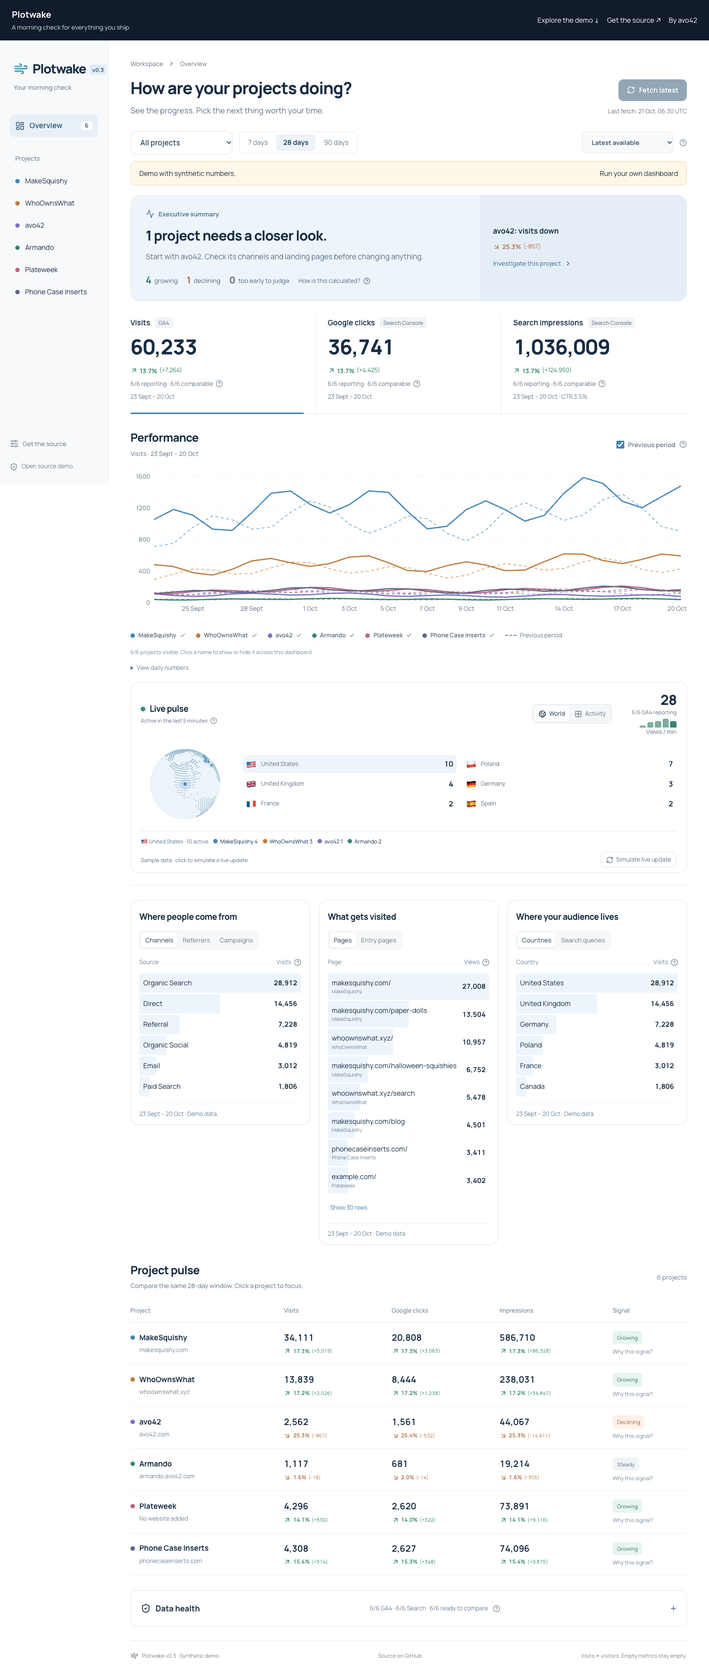
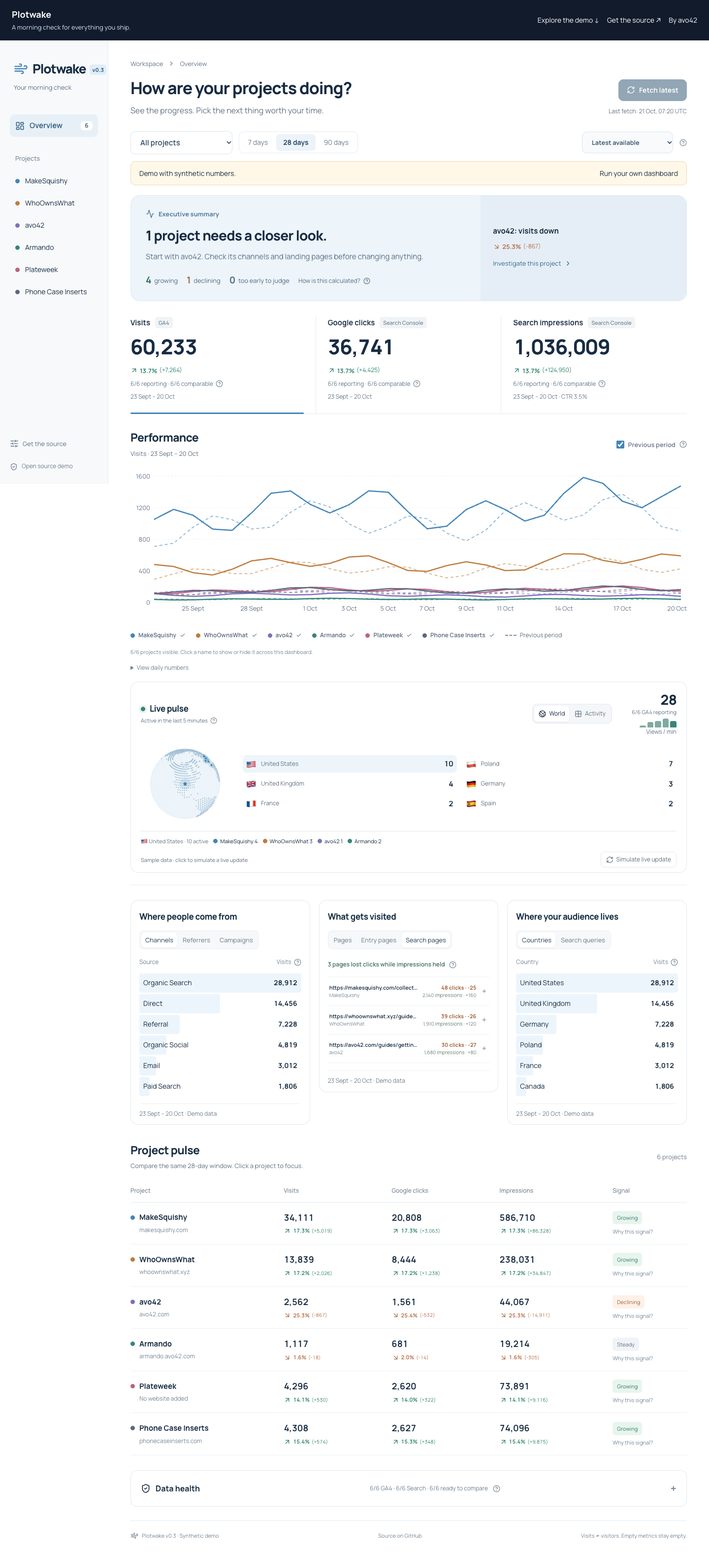
Add Search Console page loss watch

diff --git a/src/overview.tsx b/src/overview.tsx
@@ -17,7 +17,7 @@ function Delta({pct,delta}:{pct:number|null;delta:number|null}){if(delta===null)
  {delta<0?<ArrowDownRight size={15}/>:<ArrowUpRight size={15}/>} {pct===null?(delta===0?'No change':'New traffic'):`${Math.abs(pct).toFixed(1)}%`} <span>({delta>0?'+':''}{fmt(delta)})</span></span>;}
 function synthetic(projects:Project[],now:number):Snapshot{return {fetchedAt:new Date(now).toISOString(),signature:'demo',bridgeVersion:2,reports:demoReports(projects).map(r=>({...r,days:r.days.map(d=>({...d,date:dateOffset(d.date,2),sessions:d.sessions!,clicks:d.clicks!,impressions:d.impressions!})),endDate:dateOffset(r.endDate,2)}))};}
 function demoBreakdown(kind:Kind,projects:Project[],n:number,end:string|null):Breakdown{
- const labels:Record<Kind,string[]>={channels:['Organic Search','Direct','Referral','Organic Social','Email','Paid Search'],referrers:['google / organic','(direct) / (none)','reddit.com / referral','linkedin.com / referral','bing / organic','newsletter / email'],campaigns:['(not set)','autumn-launch','founder-newsletter','reddit-feedback'],pages:['/','/collections','/products/bestsellers','/about','/blog','/contact'],landing:['/','/blog/how-it-works','/collections','/products/bestsellers','/about'],countries:['United States','United Kingdom','Germany','Poland','France','Canada'],queries:['custom phone case inserts','make your own squishy','who owns this company','weekly meal planner','phone case template','squishy kit']};
+ const labels:Record<Kind,string[]>={channels:['Organic Search','Direct','Referral','Organic Social','Email','Paid Search'],referrers:['google / organic','(direct) / (none)','reddit.com / referral','linkedin.com / referral','bing / organic','newsletter / email'],campaigns:['(not set)','autumn-launch','founder-newsletter','reddit-feedback'],pages:['/','/collections','/products/bestsellers','/about','/blog','/contact'],landing:['/','/blog/how-it-works','/collections','/products/bestsellers','/about'],countries:['United States','United Kingdom','Germany','Poland','France','Canada'],queries:['custom phone case inserts','make your own squishy','who owns this company','weekly meal planner','phone case template','squishy kit'],'search-pages':[]};
  const reports=synthetic(projects,Date.now()).reports;
  const totalFor=(id:string)=>reports.find(r=>r.id===id)?.days.filter(d=>!end||d.date<=end).slice(-n).reduce((sum,d)=>sum+(kind==='queries'?d.clicks:d.sessions)!,0)||0;
  const weights=[.48,.24,.12,.08,.05,.03];
@@ -26,6 +26,7 @@ function demoBreakdown(kind:Kind,projects:Project[],n:number,end:string|null):Br
  const paths:Record<string,string[]>={makesquishy:['/','/paper-dolls','/halloween-squishies','/blog','/about'],whoownswhat:['/','/search','/companies','/about','/contact'],avo42:['/','/ai-shift','/ai-markets','/about','/contact'],phonecaseinserts:['/','/templates','/collections','/how-it-works','/about']};
  return {rows:projects.flatMap(p=>distribute(Math.round(totalFor(p.id)*(kind==='pages'?1.6:1)),(paths[p.id]||['/','/getting-started','/features','/about','/contact']).map(path=>(p.domain||'example.com')+path),p.id)).sort((a,b)=>b.value-a.value),errors:[]};
  }
+ if(kind==='search-pages')return {rows:projects.flatMap((p,i)=>[{label:`https://${p.domain||'example.com'}/${i===0?'collections/summer':'guides/getting-started'}`,value:48-i*9,previousValue:73-i*8,impressions:2140-i*230,previousImpressions:1980-i*190,ctr:.022-i*.001,previousCtr:.037-i*.002,position:8.4+i*.7,previousPosition:9.1+i*.6,flagged:true,project:p.id}]).slice(0,3),errors:[]};
  const total=projects.reduce((sum,p)=>sum+totalFor(p.id),0);
  return {rows:distribute(kind==='queries'?Math.round(total*.85):total,labels[kind]),errors:[]};
 }
@@ -80,28 +81,32 @@ export default function Overview({publicDemo=false}:{publicDemo?:boolean}){
  {hiddenOpen&&hidden.map(p=><div className="v2-hiddenrow" key={p.id}>{p.name}<button disabled={dismissBusy} onClick={()=>void dismiss(p,true)}>Restore</button></div>)}
  </div></section>
  {!demo&&data?.connected&&!!snapshot&&data?.bridgeVersion===1&&<details className="v2-upgrade" id="google-update"><summary><Link2 size={17}/> Enable fresher data & detail reports <span>One-time script update</span></summary><div><p>Your current Google script stops at three days ago and returns only visits, clicks and impressions. V2 is ready for yesterday’s provisional data and the detail reports below. Your existing key and Google permissions stay the same.</p><ol><li>Open <a href="https://script.google.com/home" target="_blank" rel="noreferrer">your Google script <ExternalLink size={13}/></a>.</li><li>Replace Code.gs with <a href={import.meta.env.BASE_URL+"google/Code.gs"} target="_blank" rel="noreferrer">the v2 script</a> and save.</li><li>Deploy → Manage deployments → edit your web app → Version: New version → Deploy. Keep its URL.</li><li>Click Fetch latest here.</li></ol></div></details>}
+ {!demo&&data?.connected&&!!snapshot&&data?.bridgeVersion>=2&&<details className="v2-upgrade" id="google-update"><summary><Link2 size={17}/> Turn on Search pages analysis <span>One-time script update</span></summary><div><p>Compare Search Console page clicks with the previous period, including pages where clicks fall while impressions hold. Your existing key and Google permissions stay the same.</p><ol><li>Open your Google Apps Script project.</li><li>Replace Code.gs with <a href={import.meta.env.BASE_URL+"google/Code.gs"} target="_blank" rel="noreferrer">the updated script</a> and save.</li><li>Deploy → Manage deployments → edit your web app → Version: New version → Deploy. Keep its URL.</li><li>Return here and select Search pages.</li></ol></div></details>}
  <section className="v2-stats" aria-label="Key metrics">{(['sessions','clicks','impressions'] as Metric[]).map(k=>{const t=stats[k];return <button key={k} data-testid={'stat-'+k} className={'v2-stat '+(metric===k?'chosen':'')} onClick={()=>setMetric(k)} aria-pressed={metric===k}><span className="v2-statlabel">{metricNames[k]} <span>{k==='sessions'?'GA4':'Search Console'}</span></span><strong>{fmt(t.current)}</strong><Delta pct={t.pct} delta={t.delta}/><span className="v2-statfoot">{t.covered}/{scope.length} reporting · {t.comparable}/{scope.length} comparable <Help text="Total: projects with complete, healthy data in this window. Change: only projects with verified tracking in both periods, compared like for like. Missing sources are excluded rather than counted as zero."/></span><span className="v2-statfoot">{ends[k]?`${short(dateOffset(ends[k]!,1-period))} – ${short(ends[k])}`:'Waiting for a complete report'}{k==='impressions'&&ctr!==null?` · CTR ${ctr.toFixed(1)}%`:''}</span></button>;})}</section>
  <section className="v2-chartsection" aria-labelledby="performance-title"><div className="v2-sectionhead"><div><h2 id="performance-title">Performance</h2><p>{metricNames[metric]} · {short(start)} – {short(end)}</p></div><label className="v2-checkbox"><input type="checkbox" checked={previous} onChange={e=>setPrevious(e.target.checked)}/> Previous period <Help text="Dashed lines show the preceding period, shifted to the same weekday slot for 7 and 28 days. Historical numbers remain visible even if tracking is unverified; growth percentages require a verified baseline. Gaps mean unavailable data, not zero."/></label></div>
  <div className="v2-chart" role="img" aria-label={`${metricNames[metric]} by day, one colour per project. Dashed lines show the previous ${period} days. Values are also available in the daily data table below.`}>
  {end?<ResponsiveContainer width="100%" height={310}><LineChart data={chartRows} margin={{top:18,right:12,left:0,bottom:6}} accessibilityLayer><CartesianGrid vertical={false} stroke="#e9eef3" strokeDasharray="3 4"/><XAxis dataKey="label" axisLine={false} tickLine={false} minTickGap={45} tick={{fontSize:13,fill:'#667589'}}/><YAxis width={48} axisLine={false} tickLine={false} tick={{fontSize:13,fill:'#667589'}} allowDecimals={false}/><Tooltip labelFormatter={(_,payload)=>{const date=payload?.[0]?.payload?.date;return date?`${short(date)} · previous ${short(dateOffset(date,-period))}`:'';}} formatter={(value,name)=>[fmt(Number(value)),String(name)]} contentStyle={{borderRadius:12,border:'1px solid #dde5ed',fontSize:14,boxShadow:'0 8px 24px #1f385415'}}/>{scope.map(p=><Line key={p.id} type="linear" dataKey={p.id} name={p.name} stroke={p.color} strokeWidth={2.5} dot={false} activeDot={{r:4}} connectNulls={false} isAnimationActive={false}/>)}{previous&&scope.map(p=><Line key={p.id+'-previous'} dataKey={p.id+'-previous'} name={`${p.name} · previous`} stroke={p.color} strokeOpacity={0.6} strokeWidth={1.8} strokeDasharray="6 5" dot={false} connectNulls={false} isAnimationActive={false}/>)}</LineChart></ResponsiveContainer>:<div className="v2-empty">No complete reports yet. Fetch data or preview the demo.</div>}
  </div><div className="v2-legend" role="group" aria-label="Visible projects">{available.map(p=><button key={p.id} aria-pressed={!excluded.includes(p.id)} onClick={()=>toggleProject(p.id)} title={`${excluded.includes(p.id)?'Show':'Hide'} ${p.name}`}><i style={{background:p.color}}/>{p.name}{!excluded.includes(p.id)&&<Check size={12}/>}</button>)}{previous&&<span className="v2-dashed">Previous period</span>}{excluded.some(id=>available.some(p=>p.id===id))&&<button className="v2-showall" onClick={()=>setExcluded([])}>Show all</button>}</div><p className="v2-filterhint">{scope.length}/{available.length} projects visible. Click a name to show or hide it across this dashboard.</p><details className="v2-daily"><summary>View daily numbers</summary><div className="v2-tablewrap"><table><thead><tr><th>Date</th>{scope.map(p=><th key={p.id}>{p.name}</th>)}{previous&&scope.map(p=><th key={p.id}>Previous · {p.name}</th>)}</tr></thead><tbody>{chartRows.map((row,i)=><tr key={i}><td>{row.date}</td>{scope.map(p=><td key={p.id}>{fmt(row[p.id] as number|null)}</td>)}{previous&&scope.map(p=><td key={p.id}>{fmt(row[p.id+'-previous'] as number|null)}</td>)}</tr>)}</tbody></table></div></details><LivePulse projects={scope} demo={demo} connected={!!data?.connected} /></section>
- <section className="v2-breakdowns" aria-label="Traffic details"><BreakdownPanel title="Where people come from" tabs={[['channels','Channels'],['referrers','Referrers'],['campaigns','Campaigns']]} project={selected} projects={scope} period={period} end={ends.sessions} demo={demo} bridge={data?.bridgeVersion||1} refreshed={snapshot?.fetchedAt||''}/><BreakdownPanel title="What gets visited" tabs={[['pages','Pages'],['landing','Entry pages']]} project={selected} projects={scope} period={period} end={ends.sessions} demo={demo} bridge={data?.bridgeVersion||1} refreshed={snapshot?.fetchedAt||''}/><BreakdownPanel title="Where your audience lives" tabs={[['countries','Countries'],['queries','Search queries']]} project={selected} projects={scope} period={period} end={ends.clicks} gaEnd={ends.sessions} demo={demo} bridge={data?.bridgeVersion||1} refreshed={snapshot?.fetchedAt||''}/></section>
+ <section className="v2-breakdowns" aria-label="Traffic details"><BreakdownPanel title="Where people come from" tabs={[['channels','Channels'],['referrers','Referrers'],['campaigns','Campaigns']]} project={selected} projects={scope} period={period} end={ends.sessions} demo={demo} bridge={data?.bridgeVersion||1} refreshed={snapshot?.fetchedAt||''}/><BreakdownPanel title="What gets visited" tabs={[['pages','Pages'],['landing','Entry pages'],['search-pages','Search pages']]} project={selected} projects={scope} period={period} end={ends.sessions} searchEnd={ends.clicks} demo={demo} bridge={data?.bridgeVersion||1} refreshed={snapshot?.fetchedAt||''}/><BreakdownPanel title="Where your audience lives" tabs={[['countries','Countries'],['queries','Search queries']]} project={selected} projects={scope} period={period} end={ends.clicks} gaEnd={ends.sessions} demo={demo} bridge={data?.bridgeVersion||1} refreshed={snapshot?.fetchedAt||''}/></section>
  <section className="v2-projects" aria-labelledby="project-title"><div className="v2-sectionhead"><div><h2 id="project-title">Project pulse</h2><p>Compare the same {period}-day window. Click a project to focus.</p></div><span>{scope.length} project{scope.length===1?'':'s'}</span></div><div className="v2-tablewrap"><table><thead><tr><th>Project</th><th>Visits</th><th>Google clicks</th><th>Impressions</th><th>Signal</th></tr></thead><tbody>{evaluated.map(x=><tr key={x.p.id}><td><button className="v2-projectlink" onClick={()=>chooseProject(x.p.id)}><i style={{background:x.p.color}}/>{x.p.name}</button><span className="v2-domain">{x.p.domain||'No website added'}</span></td>{(['sessions','clicks','impressions'] as Metric[]).map(k=>{const t=projectTotals(x.p,windowReport(reports.find(r=>r.id===x.p.id),ends[k]),k,period);return <td data-label={metricNames[k]} key={k}><b>{fmt(t.current)}</b><Delta pct={t.pct} delta={t.delta}/></td>;})}<td><span className={'v2-status '+x.state.toLowerCase().replaceAll(' ','-')}>{x.state}</span><a href="#data-health" onClick={()=>setHealthOpen(true)} className="v2-smalllink">Why this signal?</a></td></tr>)}</tbody></table></div></section>
  <details className="v2-health" id="data-health" open={healthOpen} onToggle={e=>setHealthOpen(e.currentTarget.open)}><summary><ShieldCheck size={20}/> Data health <span>{stats.sessions.covered}/{scope.length} GA4 · {stats.clicks.covered}/{scope.length} Search · {stats[metric].comparable}/{scope.length} ready to compare</span><Help text="Open this panel to see exactly which sources are linked, why a project is excluded and how much history it has. Each source opens its Google report."/></summary><div className="v2-healthintro"><h3>What does “ready to compare” mean?</h3><p>A project needs complete data in both {period}-day periods and evidence that tracking was active before the previous period started. We use your confirmed tracking date or the first recorded visit/impression. Low traffic is labelled a small sample. A trend is growing or declining at ±10% and at least 5 visits/clicks, with at least 30 across both periods.</p><p>GA4 visits are sessions, not unique visitors. Search clicks and impressions measure Google search only. Overlapping Search Console properties are deduplicated for totals; GA4 and Search Console dates use different timezones. Recent data is provisional.</p></div>{scope.map(p=>{const r=reports.find(r=>r.id===p.id);const t=projectTotals(p,windowReport(r,ends[metric]),metric,period);return <div className="v2-healthrow" key={p.id}><strong>{p.name}</strong><div>{(['sessions','clicks'] as Metric[]).map(k=><span key={k}>{reportLink(p,k)?<a href={reportLink(p,k)!} target="_blank" rel="noreferrer">{k==='sessions'?'GA4':'Search Console'} <ExternalLink size={13}/></a>:<span>{k==='sessions'?'GA4':'Search Console'} not linked</span>}<small>{sourceIssue(r,k).join(' ')||(!r?'No report fetched':`${short(r.days.filter(d=>d[k]!==null).at(-1)?.date)} · ${sourceIssue(r,k).length?'Needs attention':'report available'}`)}</small></span>)}</div><p>{t.baseline&&t.current!==null&&t.previous!==null?'Ready to compare':`Not ready to compare: ${t.current===null||t.previous===null?'a full period is missing.':'tracking is not verified at the start of the previous period.'}`}</p>{!demo&&(!p.ga||!p.gsc||!p.domain)&&<button disabled={dismissBusy} onClick={()=>void dismiss(p,dismissed.includes(setupKey(p)))}>{dismissed.includes(setupKey(p))?'Restore setup reminder':'Hide setup reminder'}</button>}</div>})}</details>
  <footer className="v2-footer"><span><Wind size={16}/> Plotwake v0.3 · {publicDemo?"Synthetic demo":"Your private workspace"}</span><a href="https://github.com/matt-warchol/plotwake">Source on GitHub</a><span>Visits ≠ visitors. Empty metrics stay empty.</span></footer>
  </main></div>;
 }
-function BreakdownPanel({title,tabs,project,projects,period,end,gaEnd,demo,bridge,refreshed}:{title:string;tabs:[Kind,string][];project:string;projects:Project[];period:number;end:string|null;gaEnd?:string|null;demo:boolean;bridge:number;refreshed:string}){
+function BreakdownPanel({title,tabs,project,projects,period,end,gaEnd,searchEnd,demo,bridge,refreshed}:{title:string;tabs:[Kind,string][];project:string;projects:Project[];period:number;end:string|null;gaEnd?:string|null;searchEnd?:string|null;demo:boolean;bridge:number;refreshed:string}){
  const [kind,setKind]=useState<Kind>(tabs[0][0]),[result,setResult]=useState<{key:string;data?:Breakdown;error?:string}|null>(null),[expanded,setExpanded]=useState(false),[retry,setRetry]=useState(0);
- const actualEnd=kind==='countries'&&gaEnd!==undefined?gaEnd:end;
+ const actualEnd=kind==='countries'&&gaEnd!==undefined?gaEnd:kind==='search-pages'&&searchEnd!==undefined?searchEnd:end;
  const ids=projects.map(p=>p.id).join(',');
  const requestKey=JSON.stringify([ids,period,actualEnd,kind,refreshed,retry]);
  useEffect(()=>{let alive=true;if(demo||bridge<2||!actualEnd||!ids)return;api<Breakdown>({action:'details',project,projectIds:ids.split(','),kind,days:period,endDate:actualEnd}).then(data=>{if(alive)setResult({key:requestKey,data});}).catch(e=>{if(alive)setResult({key:requestKey,error:e.message});});return()=>{alive=false;};},[project,ids,period,actualEnd,demo,bridge,kind,requestKey]);
  const data=demo?projects.length?demoBreakdown(kind,projects,period,actualEnd):{rows:[],errors:[]}:result?.key===requestKey?result.data:null;
  const error=result?.key===requestKey?result.error:'';
  const loading=!demo&&bridge>=2&&!!actualEnd&&!!ids&&result?.key!==requestKey;
- const rows=data?.rows||[],max=Math.max(1,...rows.map(r=>r.value)),unit=kind==='queries'?'Clicks':kind==='pages'?'Views':'Visits';
- return <section className="v2-breakdown"><h2>{kind==='queries'?'What people search for':title}</h2><div className="v2-paneltabs" role="group" aria-label={title}>{tabs.map(([k,label])=><button key={k} aria-pressed={kind===k} onClick={()=>{setKind(k);setExpanded(false);}}>{label}</button>)}</div><div className="v2-rowhead"><span>{kind==='queries'?'Query':kind==='countries'?'Country':kind==='pages'||kind==='landing'?'Page':'Source'}</span><span>{unit} <Help text={kind==='queries'?'Google search clicks, with top queries per project. Search Console omits anonymised queries, so rows will not add up to total clicks. Overlapping properties can share queries; use project scope to investigate.':kind==='pages'?'Page views, including repeat views in one visit. Bars compare the displayed rows. Top 30 pages per project are requested.':'GA4 sessions. Top 30 rows per project are requested; totals may exclude smaller rows. Bars compare the displayed rows.'}/></span></div>
- {loading?<div className="v2-empty">Loading {tabs.find(t=>t[0]===kind)?.[1].toLowerCase()}…</div>:error?<div className="v2-empty">{error}<button onClick={()=>setRetry(retry+1)}>Retry report</button></div>:!actualEnd?<div className="v2-empty">{projects.length?'Connect a source and fetch reports to see this breakdown.':'Add or select a project to see its reports.'}</div>:!demo&&(bridge<2||data?.upgradeRequired)?<div className="v2-empty"><Link2 size={23}/><strong>One script update away.</strong><p>Your current Google connection does not send this report yet.</p><a href="#google-update">See update steps</a></div>:!rows.length?<div className="v2-empty">{!projects.length?'Choose projects using the legend above.':actualEnd?'No rows reported for this period. Check the linked source in Data health.':'Waiting for a complete report.'}</div>:<div className="v2-barrows">{rows.slice(0,expanded?50:8).map((r,i)=>{const p=projects.find(p=>p.id===r.project);return <div className="v2-barrow" key={r.label+'-'+i} tabIndex={0}><span className="v2-barfill" style={{width:`${r.value/max*100}%`}}/><span className="v2-rowlabel">{r.label}{project==='all'&&r.project&&['pages','landing','queries'].includes(kind)&&<small>{p?.name}</small>}</span><b>{fmt(r.value)}</b><span className="v2-rowtip" role="tooltip">{r.label} · {fmt(r.value)} {unit.toLowerCase()}{r.impressions!==undefined?` · ${fmt(r.impressions)} impressions`:''}</span></div>;})}</div>}
+ const rows=data?.rows||[],max=Math.max(1,...rows.map(r=>r.value)),unit=kind==='queries'?'Clicks':kind==='pages'?'Views':'Visits',lostPages=rows.length;
+ return <section className="v2-breakdown"><h2>{kind==='queries'?'What people search for':title}</h2><div className="v2-paneltabs" role="group" aria-label={title}>{tabs.map(([k,label])=><button key={k} aria-pressed={kind===k} onClick={()=>{setKind(k);setExpanded(false);}}>{label}</button>)}</div>
+ {kind==='search-pages'?<><div className="v2-search-summary"><strong>{loading?'Checking search pages…':error?'Report unavailable':!demo&&(bridge<2||data?.upgradeRequired)?'Script update needed to compare pages':data?.errors.length?'Some project reports are unavailable':!actualEnd?'Waiting for Search Console data':lostPages?`${lostPages} page${lostPages===1?'':'s'} lost clicks while impressions held`:'No pages losing clicks with stable impressions'}</strong><Help text="Search Console page totals for this period vs the previous period. Flagged when clicks fell by at least 3 and 10%, while impressions stayed within 5% or grew. Recent figures can change. Expand a page to see CTR and average position."/></div>
+ {loading?<div className="v2-search-empty">Comparing Search Console pages…</div>:error?<div className="v2-search-empty">{error}<button onClick={()=>setRetry(retry+1)}>Retry report</button></div>:!actualEnd?<div className="v2-search-empty">Connect Search Console and fetch reports to see page trends.</div>:!demo&&(bridge<2||data?.upgradeRequired)?<div className="v2-search-empty"><Link2 size={20}/><strong>One script update away.</strong><span>Your Google script needs the Search pages update.</span><a href="#google-update">See update steps</a></div>:!rows.length?<div className="v2-search-empty">No page crossed the alert threshold in this period.</div>:<div className="v2-search-list">{rows.slice(0,expanded?20:3).map((r,i)=>{const p=projects.find(p=>p.id===r.project),delta=r.previousValue===undefined?null:r.value-r.previousValue,impDelta=r.previousImpressions===undefined?null:r.impressions!-r.previousImpressions;return <details className="v2-search-row" key={r.project+'-'+r.label+'-'+i}><summary><span className="v2-search-url">{r.label}{project==='all'&&p&&<small>{p.name}</small>}</span><span className="v2-search-deltas"><b>{delta===null?'—':`${fmt(r.value)} clicks · ${delta>0?'+':''}${fmt(delta)}`}</b><small>{impDelta===null?'—':`${fmt(r.impressions)} impressions · ${impDelta>0?'+':''}${fmt(impDelta)}`}</small></span><span className="v2-search-caret">+</span></summary><div className="v2-search-detail"><span>CTR <b>{r.ctr===undefined?'—':`${(r.ctr*100).toFixed(1)}%`}</b><small>was {r.previousCtr===undefined?'—':`${(r.previousCtr*100).toFixed(1)}%`}</small></span><span>Position <b>{r.position===undefined?'—':r.position.toFixed(1)}</b><small>was {r.previousPosition===undefined?'—':r.previousPosition.toFixed(1)}</small></span></div></details>;})}</div>}
+ {rows.length>3&&<button className="v2-more" onClick={()=>setExpanded(!expanded)}>{expanded?'Show fewer':`See all ${rows.length} flagged pages`}</button>}</>:<><div className="v2-rowhead"><span>{kind==='queries'?'Query':kind==='countries'?'Country':kind==='pages'||kind==='landing'?'Page':'Source'}</span><span>{unit} <Help text={kind==='queries'?'Google search clicks, with top queries per project. Search Console omits anonymised queries, so rows will not add up to total clicks. Overlapping properties can share queries; use project scope to investigate.':kind==='pages'?'Page views, including repeat views in one visit. Bars compare the displayed rows. Top 30 pages per project are requested.':'GA4 sessions. Top 30 rows per project are requested; totals may exclude smaller rows. Bars compare the displayed rows.'}/></span></div>
+ {loading?<div className="v2-empty">Loading {tabs.find(t=>t[0]===kind)?.[1].toLowerCase()}…</div>:error?<div className="v2-empty">{error}<button onClick={()=>setRetry(retry+1)}>Retry report</button></div>:!actualEnd?<div className="v2-empty">{projects.length?'Connect a source and fetch reports to see this breakdown.':'Add or select a project to see its reports.'}</div>:!demo&&(bridge<2||data?.upgradeRequired)?<div className="v2-empty"><Link2 size={23}/><strong>One script update away.</strong><p>Your current Google connection does not send this report yet.</p><a href="#google-update">See update steps</a></div>:!rows.length?<div className="v2-empty">{!projects.length?'Choose projects using the legend above.':actualEnd?'No rows reported for this period. Check the linked source in Data health.':'Waiting for a complete report.'}</div>:<div className="v2-barrows">{rows.slice(0,expanded?50:8).map((r,i)=>{const p=projects.find(p=>p.id===r.project);return <div className="v2-barrow" key={r.label+'-'+i} tabIndex={0}><span className="v2-barfill" style={{width:`${r.value/max*100}%`}}/><span className="v2-rowlabel">{r.label}{project==='all'&&r.project&&['pages','landing','queries'].includes(kind)&&<small>{p?.name}</small>}</span><b>{fmt(r.value)}</b><span className="v2-rowtip" role="tooltip">{r.label} · {fmt(r.value)} {unit.toLowerCase()}{r.impressions!==undefined?` · ${fmt(r.impressions)} impressions`:''}</span></div>;})}</div>}</>}
  {rows.length>8&&<button className="v2-more" onClick={()=>setExpanded(!expanded)}>{expanded?'Show fewer':`Show ${rows.length} rows`}</button>}{!!data?.errors.length&&<div className="v2-panelwarning">Some sources are missing: {data.errors.join(' ')} <a href="#data-health" onClick={()=>{const panel=document.getElementById("data-health") as HTMLDetailsElement|null;if(panel)panel.open=true;}}>Check sources</a></div>}<div className="v2-paneldate">{short(actualEnd?dateOffset(actualEnd,1-period):null)} – {short(actualEnd)}{demo?' · Demo data':rows.length?' · Top results':''}</div></section>;
 }

diff --git a/server/api.ts b/server/api.ts
@@ -32,10 +32,10 @@ export async function POST(request:Request){
  if(ids&&ids.some(id=>!all.some((p:{id:string})=>p.id===id)))throw new Error("Unknown project");
  const selected=ids?all.filter((p:{id:string})=>ids.includes(p.id)):body.project==="all"?all:all.filter((p:{id:string})=>p.id===body.project);if(!selected.length)throw new Error("Choose a project");
  const cacheKey="detail-v2:"+JSON.stringify([signature(selected),kind,n,endDate]);const [cached,currentSnapshot]=await Promise.all([read(cacheKey,null),read("snapshot",null)]);if(cached&&Date.now()-Date.parse(cached.fetchedAt)<3600000&&Date.parse(cached.fetchedAt)>=Date.parse(currentSnapshot?.fetchedAt||"1970-01-01"))return reply(cached);
- let data;try{data=await remote(connection,"breakdownV2",selected.map((p:{id:string;ga:string;gsc:string})=>({id:p.id,ga:p.ga,gsc:p.gsc})),{kind,days:n,endDate});}catch(error){if(error instanceof Error&&/Unknown operation/.test(error.message))return reply({upgradeRequired:true,rows:[],errors:[]});throw error;}
- const result=z.object({rows:z.array(z.object({label:z.string().max(2000),value:z.number().finite().nonnegative(),impressions:z.number().finite().nonnegative().optional(),project:z.string().max(80).optional()})).max(900),errors:z.array(z.string().max(1000)).max(40)}).parse(data);
- const grouped=new Map<string,BreakdownRow>();for(const row of result.rows){const key=(kind==="pages"||kind==="landing"||kind==="queries")?(row.project||"")+"|"+row.label:row.label;const old=grouped.get(key);grouped.set(key,{...row,value:(old?.value||0)+row.value,impressions:row.impressions===undefined?undefined:(old?.impressions||0)+row.impressions});}
- const output={rows:[...grouped.values()].sort((a,b)=>b.value-a.value).slice(0,50),errors:result.errors,endDate,startDate:new Date(Date.parse(endDate+"T00:00:00Z")-(n-1)*86400000).toISOString().slice(0,10),fetchedAt:new Date().toISOString()};await write(cacheKey,output);return reply(output);
+ let data;try{data=await remote(connection,"breakdownV2",selected.map((p:{id:string;ga:string;gsc:string})=>({id:p.id,ga:p.ga,gsc:p.gsc})),{kind,days:n,endDate});}catch(error){if(error instanceof Error&&/Unknown operation|Invalid breakdown/.test(error.message))return reply({upgradeRequired:true,rows:[],errors:[]});throw error;}
+ const result=z.object({rows:z.array(z.object({label:z.string().max(2000),value:z.number().finite().nonnegative(),impressions:z.number().finite().nonnegative().optional(),project:z.string().max(80).optional(),previousValue:z.number().finite().nonnegative().optional(),previousImpressions:z.number().finite().nonnegative().optional(),ctr:z.number().finite().optional(),previousCtr:z.number().finite().optional(),position:z.number().finite().optional(),previousPosition:z.number().finite().optional(),flagged:z.boolean().optional()})).max(900),errors:z.array(z.string().max(1000)).max(40)}).parse(data);
+ const grouped=new Map<string,BreakdownRow>();for(const row of result.rows){const key=(kind==="pages"||kind==="landing"||kind==="queries"||kind==="search-pages")?(row.project||"")+"|"+row.label:row.label;const old=grouped.get(key);grouped.set(key,kind==="search-pages"?row:{...row,value:(old?.value||0)+row.value,impressions:row.impressions===undefined?undefined:(old?.impressions||0)+row.impressions});}
+ const output={rows:[...grouped.values()].sort(kind==="search-pages"?(a,b)=>((b.previousValue||0)-b.value)-((a.previousValue||0)-a.value):(a,b)=>b.value-a.value).slice(0,50),errors:result.errors,endDate,startDate:new Date(Date.parse(endDate+"T00:00:00Z")-(n-1)*86400000).toISOString().slice(0,10),fetchedAt:new Date().toISOString()};await write(cacheKey,output);return reply(output);
  }
  if(body.action==="realtime"){
  const [connection,all]=await Promise.all([read("connection",null),read("projects",[])]);

diff --git a/src/overview.css b/src/overview.css
@@ -10,3 +10,4 @@
 
 .v2-legend>button[aria-pressed=false]{color:#83909c;text-decoration:line-through;opacity:.65}.v2-legend>button[aria-pressed=false]>i{background:transparent!important;outline:1px solid #99a7b2}.v2-legend>button[aria-pressed=true]{font-weight:650}.v2-legend>.v2-showall{color:#3476a5;text-decoration:underline}.v2-filterhint{font-size:11px!important;margin:8px 0 0;color:#738798!important}.v2-legend>button{min-height:32px}
 .v2-legend>button,.v2-paneltabs>button,.v2-segments>button,.v2-nav,.v2-projectnav>button{transition:background-color .2s ease,color .2s ease,opacity .2s ease,transform .2s ease}.v2-legend>button:hover,.v2-projectnav>button:hover{transform:translateY(-2px)}.v2-barfill{transition:width .55s cubic-bezier(.2,.8,.2,1)}@media(prefers-reduced-motion:reduce){.v2-legend>button,.v2-paneltabs>button,.v2-segments>button,.v2-nav,.v2-projectnav>button,.v2-barfill{transition:none!important;transform:none!important}}
+.v2-search-summary{display:flex;align-items:center;gap:8px;min-height:39px;padding:0 0 10px;color:#4c756a;font-size:12px}.v2-search-summary>strong{font-weight:650}.v2-search-list{border-top:1px solid #edf0f4}.v2-search-row{border-bottom:1px solid #edf0f4}.v2-search-row>summary{list-style:none;cursor:pointer;display:grid;grid-template-columns:minmax(0,1fr) auto 16px;align-items:center;gap:8px;min-height:57px;padding:7px 3px}.v2-search-row>summary::-webkit-details-marker{display:none}.v2-search-row>summary:hover .v2-search-url{color:#3476a5}.v2-search-url{min-width:0;overflow:hidden;text-overflow:ellipsis;white-space:nowrap;font-size:11px;font-weight:600}.v2-search-url>small{display:block;font-size:10px;color:#778899;font-weight:400}.v2-search-deltas{text-align:right;white-space:nowrap}.v2-search-deltas>b{display:block;color:#a0653b;font-size:11px}.v2-search-deltas>small{display:block;color:#65826f;font-size:10px}.v2-search-caret{color:#698095;font-size:16px;text-align:center}.v2-search-row[open] .v2-search-caret{transform:rotate(45deg)}.v2-search-detail{display:flex;gap:27px;padding:0 8px 12px;font-size:10px;color:#778899}.v2-search-detail>span>b{display:block;font-size:13px;color:#304b64}.v2-search-detail>span>small{display:block;font-size:10px}.v2-search-empty{min-height:90px;display:flex;flex-direction:column;align-items:flex-start;justify-content:center;gap:7px;font-size:12px;color:#718396;line-height:1.5}.v2-search-empty>strong{color:#405b73;font-size:13px}.v2-search-empty>a,.v2-search-empty>button{font-size:12px;color:#3476a5;text-decoration:underline}.v2-search-empty>.v2-help{margin-left:4px}

diff --git a/lib/v2.ts b/lib/v2.ts
@@ -1,9 +1,9 @@
 import {projectTotals,sourceIssue,type Project,type Report,type Metric} from './metrics.ts';
 
-export const kinds=['channels','referrers','campaigns','pages','landing','countries','queries'] as const;
+export const kinds=['channels','referrers','campaigns','pages','landing','countries','queries','search-pages'] as const;
 export type Kind=typeof kinds[number];
 export type V2Report=Report & {freshness?:{gaThrough?:string;gscThrough?:string;firstIncompleteDate?:string;gaTimezone?:string}};
-export type BreakdownRow={label:string;value:number;impressions?:number;project?:string};
+export type BreakdownRow={label:string;value:number;impressions?:number;project?:string;previousValue?:number;previousImpressions?:number;ctr?:number;previousCtr?:number;position?:number;previousPosition?:number;flagged?:boolean};
 export type Breakdown={rows:BreakdownRow[];errors:string[];upgradeRequired?:boolean;startDate?:string;endDate?:string;unit?:string};
 export function dateOffset(date:string,days:number){return new Date(Date.parse(date+'T00:00:00Z')+days*86400000).toISOString().slice(0,10);}
 export function through(reports:Report[],metric:Metric,settled:boolean,now=new Date()){

diff --git a/docs/google-setup.md b/docs/google-setup.md
@@ -60,7 +60,11 @@ For yesterday’s provisional figures and the new traffic detail panels, replace
 
 Keep the same /exec URL, return to Plotwake, and click Fetch latest. Older scripts still support the daily overview through a compatibility fallback, but retain their three-day delay and cannot supply detail reports. The dashboard explains when the script needs updating.
 
-Breakdown units differ: channels/referrers/campaigns/countries/entry pages use sessions, pages use page views, and search queries use clicks. Query lists omit anonymised queries and will not add up to all search clicks. Top rows are bounded. Shared GA4 properties still need to match the intended project scope.
+Breakdown units differ: channels/referrers/campaigns/countries/entry pages use sessions, pages use page views, and search queries use clicks. Query lists omit anonymised queries and will not add up to all search clicks. Shared GA4 properties still need to match the intended project scope.
+
+The **Search pages** tab compares page clicks, impressions, CTR and average position with the preceding period. It flags a page when clicks fall by at least 3 and 10% while impressions remain within 5% of the previous period or grow. It compares Google's first 1,000 returned page rows from each period, so it is a practical watch list and may miss low-volume pages outside those results. Recent data can change.
+
+If the dashboard says the feature needs a script update, replace Code.gs in the existing Apps Script with the current [Code.gs](../public/google/Code.gs), then deploy a new version of the existing web app. Keep the same manifest, project number, key and `/exec` URL; no additional OAuth scope is needed.
 
 ## Enabling Live pulse after upgrading to 0.3.0
 

diff --git a/README.md b/README.md
@@ -23,6 +23,7 @@ This is the whole application. It runs on Node.js with a local SQLite database. 
 - **Numbers with context.** Absolute changes before percentages. Missing history is not a measured zero. Overlapping Search Console scopes count once, including nested subdomains.
 - **Graceful failures.** A failed Search Console request does not hide healthy GA4 visits. Existing reports remain available, with warnings and last-successful-fetch timestamps.
 - **Traffic details.** Channels, referrers, campaigns, pages, entry pages, countries and Google search queries, with explicit units and date windows. Optional setup reminders can be hidden and restored.
+- **Search page watch.** In *What gets visited*, switch to *Search pages* to spot URLs whose clicks fell by at least 3 and 10% while impressions stayed within 5% or grew. Expand a row for CTR and average position vs the previous period. The report uses Google's top 1,000 page rows per period, so it is a focused warning list rather than an exhaustive crawl.
 - **A practical interface.** Mobile project cards, visible freshness, remembered view settings, separate settings drafts and Cancel.
 
 ## Try before connecting anything
